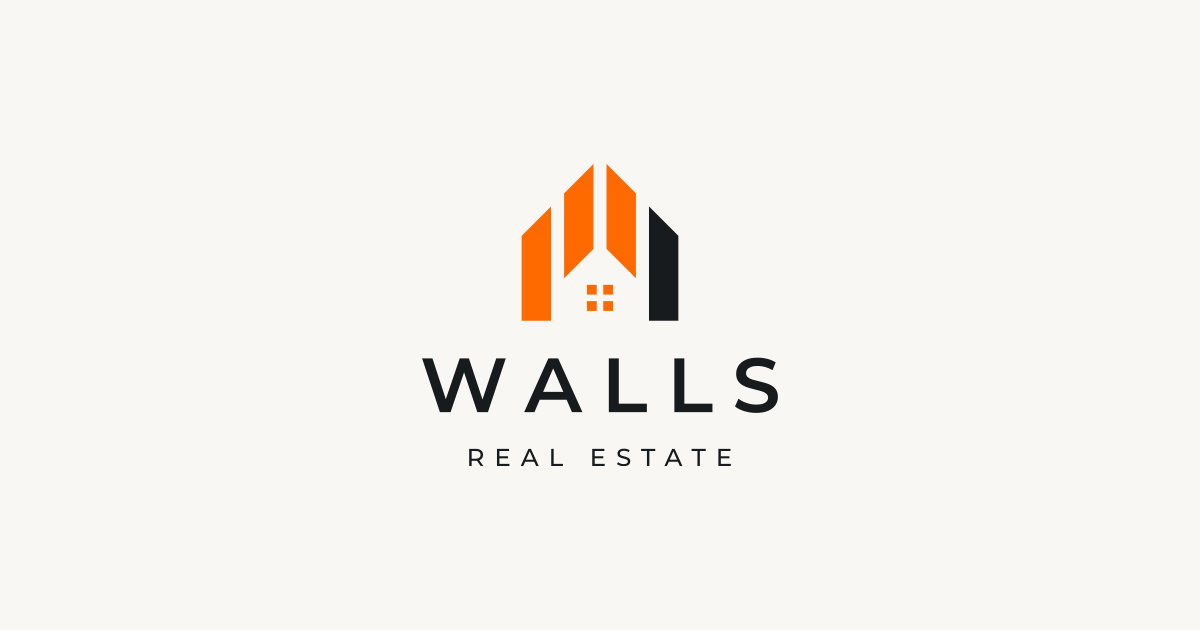
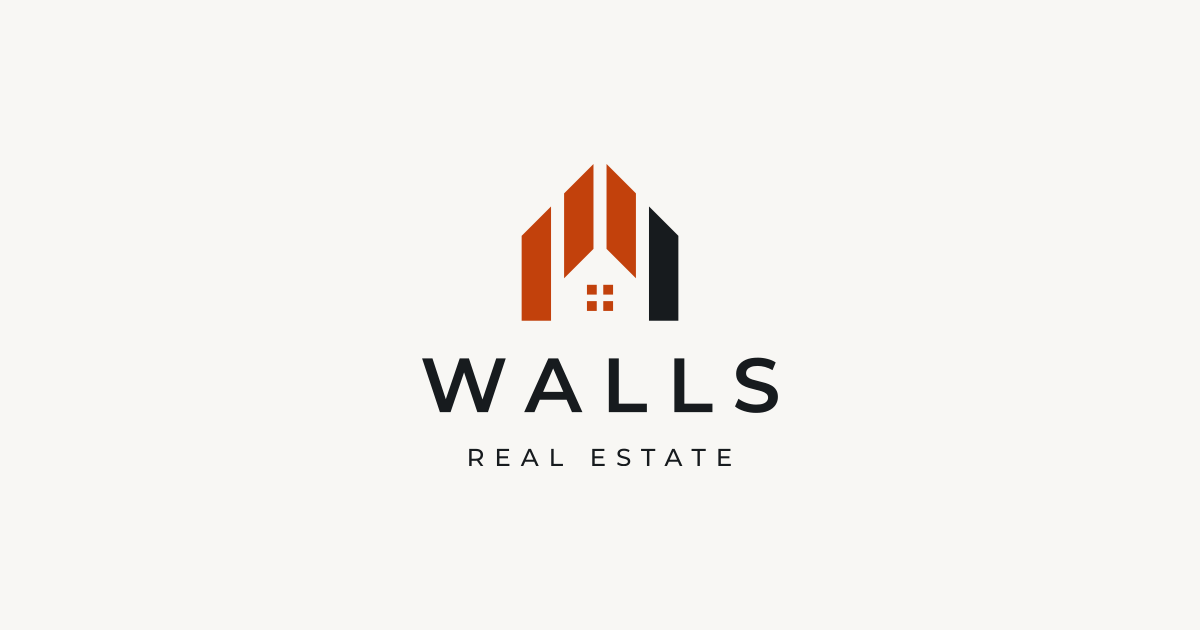
feat(brand): deeper orange #C2410C, with #FF6A00 on dark surfaces
The brand orange becomes #C2410C so text on it passes WCAG AA (cream 4.83:1),
removing the below-AA exception. The logo, favicons and link preview image are
regenerated. #FF6A00 stays as orangeOnDark for the inverse logos and dark
surface accents (6.03:1 on charcoal); buttons keep #C2410C everywhere because
cream on #FF6A00 is 2.68:1. Email buttons switch to cream text.

Changed region(s): [[0.4317, 0.2714, 0.555, 0.5127], [0.4933, 0.4524, 0.5242, 0.5127]]

diff --git a/packages/ui/src/styles/globals.css b/packages/ui/src/styles/globals.css
@@ -2,10 +2,9 @@
  * Walls design tokens and base styles, shared by the public site and the dashboard.
  *
  * Brand colors come from brand-tokens.css (generated from src/brand/brand.ts). Every UI
- * color below is derived from those five values, so rebranding only touches brand.ts.
- * Contrast rules (see packages/ui/brand/README.md): text on orange is cream (the owner's
- * choice; 2.68:1, below WCAG AA, charcoal would be 6.03:1); orange is never used for text on
- * light surfaces.
+ * color below is derived from those values, so rebranding only touches brand.ts.
+ * Contrast rules (see packages/ui/brand/README.md): text on orange is cream (4.83:1, AA);
+ * dark surfaces use the lighter --brand-orange-on-dark for accents, never behind text.
  */
 @import 'tailwindcss';
 @import 'tw-animate-css';
@@ -77,8 +76,8 @@
   --popover: var(--brand-white);
   --popover-foreground: var(--brand-charcoal);
 
-  /* Orange for primary actions; cream text on orange (2.68:1, see above). Switching this
-     token to --brand-charcoal restores the accessible 6.03:1 everywhere. */
+  /* Orange for primary actions, also on dark surfaces, since buttons carry cream text
+     (4.83:1); the lighter orange would drop that to 2.68:1. */
   --primary: var(--brand-orange);
   --primary-foreground: var(--brand-cream);
   --secondary: color-mix(in oklab, var(--brand-slate) 12%, var(--brand-white));
@@ -104,15 +103,16 @@
   /* Flat, modern shapes (SPEC §33). */
   --radius: 0.5rem;
 
-  /* Dashboard sidebar: charcoal surface; orange text is fine on charcoal (6.03:1). */
+  /* Charcoal surfaces (dashboard sidebar, hero, footer): accents use the lighter orange
+     (6.03:1 on charcoal); text on it must be charcoal (cream would be 2.68:1). */
   --sidebar: var(--brand-charcoal);
   --sidebar-foreground: var(--brand-cream);
-  --sidebar-primary: var(--brand-orange);
-  --sidebar-primary-foreground: var(--brand-cream);
+  --sidebar-primary: var(--brand-orange-on-dark);
+  --sidebar-primary-foreground: var(--brand-charcoal);
   --sidebar-accent: color-mix(in oklab, var(--brand-cream) 10%, var(--brand-charcoal));
   --sidebar-accent-foreground: var(--brand-cream);
   --sidebar-border: color-mix(in oklab, var(--brand-cream) 14%, var(--brand-charcoal));
-  --sidebar-ring: var(--brand-orange);
+  --sidebar-ring: var(--brand-orange-on-dark);
 }
 
 @layer base {

diff --git a/packages/ui/src/brand/brand.ts b/packages/ui/src/brand/brand.ts
@@ -34,17 +34,22 @@ export const brand = {
   /**
    * Brand palette. The logo artwork's colors are authoritative (SPEC §33).
    *
-   * WCAG contrast (normal text needs 4.5:1, large text 3:1):
-   *  - cream on orange    2.68  → used on orange buttons and badges by the owner's choice;
-   *                               fails AA even for large text (see --primary-foreground)
-   *  - charcoal on orange 6.03  → the accessible choice for text on orange
-   *  - white on orange    2.87  → fails even for large text; never use
-   *  - orange on white    2.87 / on cream 2.68 → never use orange for text on light surfaces
-   *  - orange on charcoal 6.03  → orange accents/text are fine on dark surfaces
+   * WCAG contrast (normal text needs 4.5:1, large text 3:1; graphics 3:1):
+   *  - cream on orange          4.83 → text on orange buttons and badges (passes AA)
+   *  - white on orange          5.18 → also passes
+   *  - charcoal on orange       3.35 → large text only; not used
+   *  - orange on white / cream  5.18 / 4.83 → orange text on light surfaces passes AA
+   *  - orangeOnDark on charcoal 6.03 → logo mark, accents and focus rings on dark surfaces
+   *  - orange on charcoal       3.35 → orange buttons on dark surfaces stay visible (graphics)
    *  - slate on white     4.83 / on cream 4.51 → secondary text passes AA (cream is borderline)
    */
   colors: {
-    orange: '#FF6A00',
+    orange: '#C2410C',
+    /**
+     * Lighter orange for dark surfaces: the inverse logos, accents and focus rings. Never
+     * behind text: cream on it is 2.68:1.
+     */
+    orangeOnDark: '#FF6A00',
     charcoal: '#171B1E',
     slate: '#6B7280',
     cream: '#F8F7F4',

diff --git a/scripts/generate-logo-variants.ts b/scripts/generate-logo-variants.ts
@@ -92,10 +92,20 @@ async function readMark(): Promise<string> {
 
 type Tone = 'default' | 'inverse';
 
-/** Inverse variants swap charcoal for cream so the logo works on dark surfaces. */
+/**
+ * Inverse variants, for dark surfaces, swap charcoal for cream and the orange for the
+ * lighter `orangeOnDark`, which keeps the mark bright on charcoal.
+ */
 function colors(tone: Tone) {
-  const ink = tone === 'inverse' ? brand.colors.cream : brand.colors.charcoal;
-  return { ink, recolorMark: (mark: string) => mark.replaceAll(brand.colors.charcoal, ink) };
+  if (tone === 'default') {
+    return { ink: brand.colors.charcoal, recolorMark: (mark: string) => mark };
+  }
+  const ink = brand.colors.cream;
+  const recolorMark = (mark: string) =>
+    mark
+      .replaceAll(brand.colors.charcoal, ink)
+      .replaceAll(brand.colors.orange, brand.colors.orangeOnDark);
+  return { ink, recolorMark };
 }
 
 function svgDocument(width: number, height: number, title: string, body: string): string {

diff --git a/apps/api/src/email/templates.ts b/apps/api/src/email/templates.ts
@@ -505,7 +505,7 @@ export function renderEmail<T extends EmailTemplate>(
       (paragraph) => `<p style="white-space:pre-line">${escapeHtml(paragraph)}</p>`,
     ),
     content.action
-      ? `<p><a href="${escapeHtml(content.action.url)}" style="background:${brand.colors.orange};color:${brand.colors.charcoal};padding:12px 20px;text-decoration:none;font-weight:bold;display:inline-block">${escapeHtml(content.action.label)}</a></p>`
+      ? `<p><a href="${escapeHtml(content.action.url)}" style="background:${brand.colors.orange};color:${brand.colors.cream};padding:12px 20px;text-decoration:none;font-weight:bold;display:inline-block">${escapeHtml(content.action.label)}</a></p>`
       : '',
     `<p style="color:${brand.colors.slate}">${escapeHtml(brand.name)} · ${escapeHtml(brand.domain)}</p>`,
     '</div>',

diff --git a/packages/ui/src/styles/brand-tokens.css b/packages/ui/src/styles/brand-tokens.css
@@ -1,6 +1,7 @@
 /* Generated from packages/ui/src/brand/brand.ts by `pnpm brand:generate`. Do not edit. */
 :root {
-  --brand-orange: #ff6a00;
+  --brand-orange: #c2410c;
+  --brand-orange-on-dark: #ff6a00;
   --brand-charcoal: #171b1e;
   --brand-slate: #6b7280;
   --brand-cream: #f8f7f4;

diff --git a/packages/ui/brand/README.md b/packages/ui/brand/README.md
@@ -13,6 +13,9 @@ These files are the source of truth. Do not edit them by hand; replace them with
 | `walls-logo.svg` | Approved stacked artwork: mark, `WALLS`, `REAL ESTATE` |
 | `favicon.svg`    | Mark only                                             |
 
+The orange in both files was changed from `#FF6A00` to `#C2410C` by the owner's decision
+(2026-10-15); keep it equal to `brand.colors.orange`, which the generator relies on.
+
 `walls-logo.svg` sets the wordmark as live text in Montserrat, which renders in a fallback
 font wherever Montserrat is not installed. Never use it directly; use the generated variants.
 
@@ -29,7 +32,8 @@ baselines, and writes these files (commit the output):
 | `walls-logo-horizontal.svg`         | Mark beside the wordmark, e.g. the header |
 | `walls-logo-horizontal-inverse.svg` | Horizontal lockup on dark surfaces        |
 
-Inverse variants replace charcoal with cream; orange is unchanged. All variants are cropped to
+Inverse variants replace charcoal with cream and the orange with the lighter
+`brand.colors.orangeOnDark` (`#FF6A00`), which stays bright on charcoal. All variants are cropped to
 the artwork's edges, so layouts add their own clear space. In the horizontal lockup the text block is
 vertically centred on the mark and separated from it by a quarter of the mark’s height;
 `REAL ESTATE` is centred under `WALLS`.
@@ -52,17 +56,19 @@ Montserrat is the typeface for all UI text, headings and body (`brand.typography
 
 ## Color usage
 
-The logo's colors are the official palette (SPEC §33). Contrast checks (WCAG AA: 4.5:1 normal
-text, 3:1 large text):
+The logo's colors are the official palette (SPEC §33). "Orange" is `#C2410C`; "orange on
+dark" is `#FF6A00`. Contrast checks (WCAG AA: 4.5:1 normal text, 3:1 large text and graphics):
 
-| Pair                    | Ratio | Rule                                              |
-| ----------------------- | ----- | ------------------------------------------------- |
-| cream on orange         | 2.68  | Used on orange buttons and badges (owner's choice); fails AA |
-| charcoal on orange      | 6.03  | The accessible alternative: set `--primary-foreground` to charcoal |
-| white on orange         | 2.87  | Fails; never use                                  |
-| orange on white / cream | 2.87 / 2.68 | Fails; no orange text on light surfaces     |
-| orange on charcoal      | 6.03  | Orange text and accents are fine on dark surfaces |
-| slate on white / cream  | 4.83 / 4.51 | Passes for secondary text (cream is borderline) |
-| charcoal on cream       | 16.17 | Primary text                                      |
+| Pair                            | Ratio       | Rule                                                 |
+| ------------------------------- | ----------- | ---------------------------------------------------- |
+| cream on orange                 | 4.83        | Text on orange buttons and badges; passes AA         |
+| white on orange                 | 5.18        | Also passes                                          |
+| charcoal on orange              | 3.35        | Large text only; not used                            |
+| orange on white / cream         | 5.18 / 4.83 | Orange text on light surfaces passes AA              |
+| orange on charcoal              | 3.35        | Orange buttons on dark surfaces (graphics, 3:1)      |
+| orange on dark, on charcoal     | 6.03        | Inverse logo, accents and focus rings on dark surfaces |
+| cream on orange on dark         | 2.68        | Fails; never put text on the lighter orange          |
+| slate on white / cream          | 4.83 / 4.51 | Passes for secondary text (cream is borderline)      |
+| charcoal on cream               | 16.17       | Primary text                                         |
 
 `favicon.svg` uses a charcoal shape, which has low contrast on dark browser tabs.

diff --git a/SPEC.md b/SPEC.md
@@ -1170,7 +1170,8 @@ Use the approved Walls logo: a geometric, architectural house/roof mark above th
 
 ### Brand color palette
 
-- Primary orange: `#FF6A00`
+- Primary orange: `#C2410C` (logo, buttons, accents)
+- Orange on dark surfaces: `#FF6A00` (the logo and accents on charcoal; never behind text)
 - Charcoal: `#171B1E`
 - Slate gray: `#6B7280`
 - Cream: `#F8F7F4`
@@ -1184,7 +1185,7 @@ The approved artwork sets the wordmark as live text; production logo files are g
 
 Use orange for primary actions and selected accents, charcoal for strong text and dark surfaces, slate gray for secondary text/borders, and cream for warm page backgrounds. Maintain accessible text contrast; do not use orange for small text on cream/white unless contrast is verified.
 
-The orange and charcoal values match the approved logo artwork, which is authoritative for brand color. Verified contrast: white text on orange is 2.87:1 and fails WCAG AA even for large text, so text on orange surfaces is **cream** (2.68:1) by the owner's decision, knowingly below WCAG AA; charcoal (6.03:1) is the accessible alternative and can be restored by changing one design token. Orange text on white/cream (2.87:1 / 2.68:1) also fails; use orange text only on dark surfaces. See `packages/ui/brand/README.md`.
+The orange and charcoal values match the approved logo artwork, which is authoritative for brand color. The owner changed the orange from `#FF6A00` to the deeper `#C2410C` (2026-10-15) so that text on orange passes WCAG AA: cream on orange is 4.83:1 (white 5.18:1), and orange text on white/cream is 5.18:1 / 4.83:1. On charcoal, `#C2410C` is only 3.35:1, so the logo on dark surfaces (inverse variants) and orange accents there use the lighter `#FF6A00` (6.03:1). Buttons stay `#C2410C` everywhere, because cream text on `#FF6A00` would be 2.68:1. See `packages/ui/brand/README.md`.
 
 The branding must remain easy to replace. Do NOT scatter branding values through components. Centralize the brand name, domain, logo asset, favicon, colors, typography, and theme tokens in one clearly documented branding/theme configuration.
 

diff --git a/README.md b/README.md
@@ -16,14 +16,15 @@ The authoritative product and technical requirements are defined in:
 - **Brand:** Walls
 - **Domain:** [walls.rs](https://walls.rs)
 - **Logo:** approved geometric architectural mark with the WALLS wordmark; SVG sources in [`packages/ui/brand/`](./packages/ui/brand/README.md).
-- **Primary orange:** `#FF6A00`
+- **Primary orange:** `#C2410C`
+- **Orange on dark surfaces:** `#FF6A00` (logo and accents on charcoal)
 - **Charcoal:** `#171B1E`
 - **Slate gray:** `#6B7280`
 - **Cream:** `#F8F7F4`
 - **White:** `#FFFFFF`
 - **Typeface:** Montserrat (headings and body)
 
-Keep branding values centralized in theme/branding configuration rather than scattering them across components. The brand configuration lives in [`packages/ui/src/brand/brand.ts`](./packages/ui/src/brand/brand.ts). Text on orange is cream by the owner's choice (2.68:1, below WCAG AA); charcoal (6.03:1) is the accessible alternative and one token away (`--primary-foreground` in `packages/ui/src/styles/globals.css`). White on orange (2.87:1) is not used.
+Keep branding values centralized in theme/branding configuration rather than scattering them across components. The brand configuration lives in [`packages/ui/src/brand/brand.ts`](./packages/ui/src/brand/brand.ts). Text on orange is cream (4.83:1, passes WCAG AA). On charcoal the logo and accents use the lighter `#FF6A00` (6.03:1); buttons keep `#C2410C`, since cream text on the lighter orange would fail. Contrast table: [`packages/ui/brand/README.md`](./packages/ui/brand/README.md).
 
 ## Architecture
 
